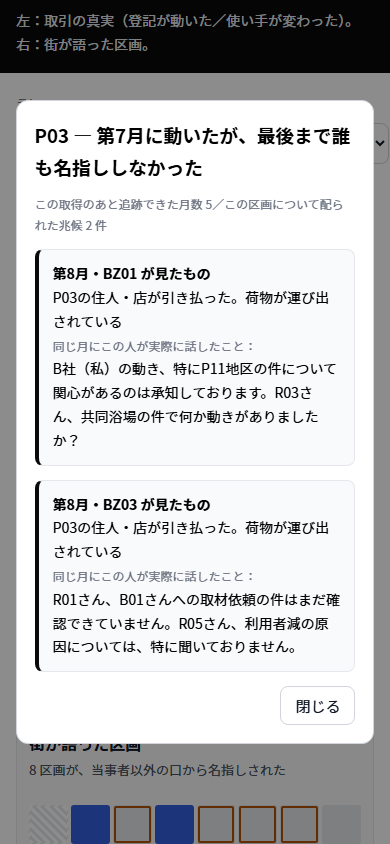
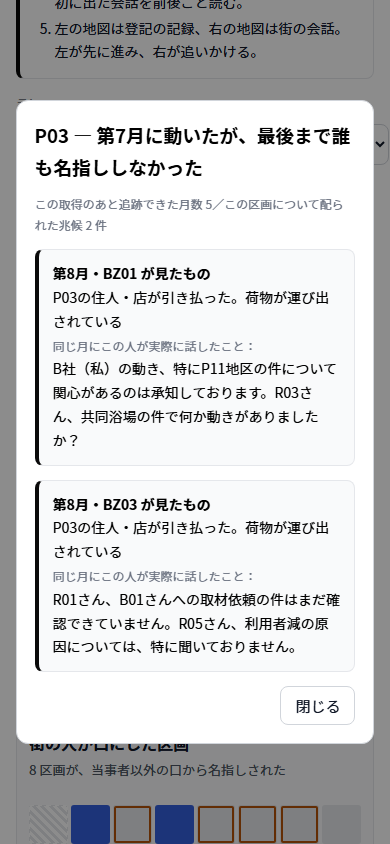
fix(present): show the first line where two parcels or two names actually stand side by side

Changed region(s): [[0.0, 0.0, 1.0, 0.0924], [0.1231, 0.8626, 0.4923, 0.8934]]

diff --git a/tests/test_present.py b/tests/test_present.py
@@ -28,6 +28,7 @@ PAGES = r"C:\Users\user\projects\quiet-acquisition-pages"
 SHOTS = os.path.join(ROOT, "docs", "shots_present")
 SHOTS2 = os.path.join(ROOT, "docs", "shots_present2")
 PASS = FAIL = 0
+SCENE_ORDER = {"plan": 0, "S1": 1, "S2": 2, "S3": 3, "S4": 4}
 
 
 def check(name, cond, detail=""):
@@ -66,7 +67,7 @@ def _jsonl(path):
 
 
 def json_checks(dC):
-    """schema 4 で足した layout / ignition / parcel_naming を JSON だけで検査する。"""
+    """schema 5 の layout / ignition（strict・loose）/ parcel_naming を JSON だけで検査する。"""
     run_dir = os.path.join(ROOT, "simulations", dC["meta"]["generated_from"])
 
     # --- layout -----------------------------------------------------------
@@ -156,59 +157,99 @@ def json_checks(dC):
 
     # --- ignition ---------------------------------------------------------
     ig = dC.get("ignition")
-    check("ignition: ある", isinstance(ig, dict) and set(ig) == {"green", "yellow"},
-          str(type(ig)))
+    check("ignition: ある", isinstance(ig, dict)
+          and set(ig) == {"green", "yellow", "criteria"}, str(type(ig)))
     if not isinstance(ig, dict):
         return
+    check("ignition: criteria に strict / loose の定義がある",
+          isinstance(ig.get("criteria"), dict)
+          and set(ig["criteria"]) == {"strict", "loose"}
+          and all(isinstance(v, str) and v for v in ig["criteria"].values()),
+          str(ig.get("criteria")))
     utts = _jsonl(os.path.join(run_dir, "utterances_v5.jsonl"))
     utt_by_id = {u.get("utt_id"): u for u in utts}
     thoughts_src = _jsonl(os.path.join(run_dir, "thoughts_all.jsonl"))
     traces_src = _jsonl(os.path.join(run_dir, "traces_v5.jsonl"))
+
+    def okey(o):
+        u = utt_by_id.get(o["utt_id"]) or {}
+        return (int(o["month"]), SCENE_ORDER.get(o["scene"], 9),
+                int(u.get("round") or 0), str(o["utt_id"] or ""), str(o["from"] or ""))
+
     for color in ("green", "yellow"):
-        o = ig[color]
-        if o is None:
-            check("ignition[%s]: 出なかった本として null" % color, True)
+        pair = ig[color]
+        check("ignition[%s]: strict と loose の2本立てになっている" % color,
+              isinstance(pair, dict) and set(pair) == {"strict", "loose"}, str(pair))
+        if not isinstance(pair, dict):
             continue
-        need = ("color", "month", "scene", "venue", "venue_label", "from", "name",
-                "role", "kind", "utt_id", "text", "rule", "llm", "context_before",
-                "context_after", "heard_before", "own_thoughts_that_month",
-                "traces_that_month")
-        check("ignition[%s]: 項目がそろっている" % color,
-              all(k in o for k in need),
-              str([k for k in need if k not in o]))
-        key = (o["month"], o["from"], o["utt_id"], o["kind"])
-        check("ignition[%s]: 元ログに該当行がある（照合が空振りしない）" % color,
-              key in src_text, str(key))
-        check("ignition[%s]: 原文が元ログと完全一致（切り詰めていない）" % color,
-              o["text"] in src_text.get(key, []), str(key))
-        own = [str(t.get("text", "")) for t in thoughts_src
-               if t.get("from") == o["from"] and int(t.get("step", 0)) == o["month"]]
-        check("ignition[%s]: 本人の内心が元ログの全行と完全一致" % color,
-              [t["text"] for t in o["own_thoughts_that_month"]] == own,
-              str(len(o["own_thoughts_that_month"])) + " vs " + str(len(own)))
-        tr = [str(t.get("text", "")) for t in traces_src
-              if t.get("agent_id") == o["from"] and int(t.get("step", 0)) == o["month"]]
-        check("ignition[%s]: その月の兆候が元ログの全行と完全一致（登記照会も含む）" % color,
-              [t["text"] for t in o["traces_that_month"]] == tr,
-              str(len(o["traces_that_month"])) + " vs " + str(len(tr)))
-        check("ignition[%s]: 色が rule ∧ llm で成立している" % color,
-              o["rule"][color] and o["llm"]["area" if color == "green" else "same_buyer"],
-              str((o["rule"], o["llm"])))
-        check("ignition[%s]: 直前の発言は5件以下" % color, len(o["context_before"]) <= 5)
-        check("ignition[%s]: 直後の反応は2件以下" % color, len(o["context_after"]) <= 2)
-        same = {(r["step"], r["scene"], r["venue"])
-                for r in o["context_before"] + o["context_after"]}
-        check("ignition[%s]: 前後の発言は同じ月・同じ場面・同じ場" % color,
-              not same or same == {(o["month"], o["scene"], o["venue"])}, str(same))
-        check("ignition[%s]: 聞いていた発言は5件以下" % color,
-              len(o["heard_before"]) <= 5)
-        miss = [r["utt_id"] for r in o["heard_before"]
-                if o["from"] not in (utt_by_id.get(r["utt_id"], {}).get("heard_by") or [])]
-        check("ignition[%s]: 聞いていた発言に本人が同席している" % color,
-              not miss, str(miss[:3]))
-        check("ignition[%s]: 前後・聞いた発言の原文が元ログと一致" % color,
-              all(utt_by_id.get(r["utt_id"], {}).get("text") == r["text"]
-                  for r in o["context_before"] + o["context_after"] + o["heard_before"]))
+        if pair["strict"] is not None and pair["loose"] is not None:
+            check("ignition[%s]: strict は loose と同じか後の行" % color,
+                  okey(pair["strict"]) >= okey(pair["loose"]),
+                  str((okey(pair["strict"]), okey(pair["loose"]))))
+        for slot in ("strict", "loose"):
+            o = pair[slot]
+            tag = "ignition[%s.%s]" % (color, slot)
+            if o is None:
+                check("%s: 出なかった本として null" % tag, True)
+                continue
+            need = ("color", "month", "scene", "venue", "venue_label", "from", "name",
+                    "role", "kind", "utt_id", "text", "rule", "llm", "context_before",
+                    "context_after", "heard_before", "own_thoughts_that_month",
+                    "traces_that_month")
+            check("%s: 項目がそろっている" % tag,
+                  all(k in o for k in need),
+                  str([k for k in need if k not in o]))
+            key = (o["month"], o["from"], o["utt_id"], o["kind"])
+            check("%s: 元ログに該当行がある（照合が空振りしない）" % tag,
+                  key in src_text, str(key))
+            check("%s: 原文が元ログと完全一致（切り詰めていない）" % tag,
+                  o["text"] in src_text.get(key, []), str(key))
+            own = [str(t.get("text", "")) for t in thoughts_src
+                   if t.get("from") == o["from"] and int(t.get("step", 0)) == o["month"]]
+            check("%s: 本人の内心が元ログの全行と完全一致" % tag,
+                  [t["text"] for t in o["own_thoughts_that_month"]] == own,
+                  str(len(o["own_thoughts_that_month"])) + " vs " + str(len(own)))
+            tr = [str(t.get("text", "")) for t in traces_src
+                  if t.get("agent_id") == o["from"] and int(t.get("step", 0)) == o["month"]]
+            check("%s: その月の兆候が元ログの全行と完全一致（登記照会も含む）" % tag,
+                  [t["text"] for t in o["traces_that_month"]] == tr,
+                  str(len(o["traces_that_month"])) + " vs " + str(len(tr)))
+            check("%s: 直前の発言は5件以下" % tag, len(o["context_before"]) <= 5)
+            check("%s: 直後の反応は2件以下" % tag, len(o["context_after"]) <= 2)
+            same = {(r["step"], r["scene"], r["venue"])
+                    for r in o["context_before"] + o["context_after"]}
+            check("%s: 前後の発言は同じ月・同じ場面・同じ場" % tag,
+                  not same or same == {(o["month"], o["scene"], o["venue"])}, str(same))
+            check("%s: 聞いていた発言は5件以下" % tag,
+                  len(o["heard_before"]) <= 5)
+            miss = [r["utt_id"] for r in o["heard_before"]
+                    if o["from"] not in (utt_by_id.get(r["utt_id"], {}).get("heard_by") or [])]
+            check("%s: 聞いていた発言に本人が同席している" % tag,
+                  not miss, str(miss[:3]))
+            check("%s: 前後・聞いた発言の原文が元ログと一致" % tag,
+                  all(utt_by_id.get(r["utt_id"], {}).get("text") == r["text"]
+                      for r in o["context_before"] + o["context_after"] + o["heard_before"]))
+            if slot == "loose":
+                check("%s: 色が rule ∧ llm で成立している" % tag,
+                      o["rule"][color]
+                      and o["llm"]["area" if color == "green" else "same_buyer"],
+                      str((o["rule"], o["llm"])))
+                check("%s: matched を持たない" % tag, "matched" not in o)
+            else:
+                m = o.get("matched")
+                check("%s: matched がある（並んだものを出せる）" % tag,
+                      isinstance(m, dict) and set(m) == {"parcels", "holders"}, str(m))
+                if isinstance(m, dict) and set(m) == {"parcels", "holders"}:
+                    check("%s: 区画IDか名義のどちらかが2件以上" % tag,
+                          len(m["parcels"]) >= 2 or len(m["holders"]) >= 2, str(m))
+                    check("%s: matched はソート済み" % tag,
+                          m["parcels"] == sorted(m["parcels"])
+                          and m["holders"] == sorted(m["holders"]), str(m))
+                    miss2 = [x for x in m["parcels"] + m["holders"] if x not in o["text"]]
+                    check("%s: matched は本文に実在する" % tag, not miss2, str(miss2))
+                check("%s: LLM ラベルが立っている" % tag,
+                      bool(o["llm"]["area" if color == "green" else "same_buyer"]),
+                      str(o["llm"]))
 
 
 def main() -> int:
@@ -225,8 +266,14 @@ def main() -> int:
         with open(os.path.join(PAGES, "present_data_%s.json" % lab), encoding="utf-8") as f:
             d = json.load(f)
         check("%s: 区画属性を持たない run は layout=null（従来の格子で描く）" % lab,
-              d.get("layout") is None and d["meta"]["schema"] == 4,
+              d.get("layout") is None and d["meta"]["schema"] == 5,
               str(d["meta"]["schema"]))
+        ig = d.get("ignition")
+        check("%s: ignition は色の判定が無い run でも同じ形" % lab,
+              isinstance(ig, dict) and set(ig) == {"green", "yellow", "criteria"}
+              and all(ig[c] == {"strict": None, "loose": None}
+                      for c in ("green", "yellow"))
+              and set(ig["criteria"]) == {"strict", "loose"}, str(ig))
     for lab in ("v5cA", "v5cB", "v5cC"):
         with open(os.path.join(PAGES, "present_data_%s.json" % lab), encoding="utf-8") as f:
             json_checks(json.load(f))
@@ -492,20 +539,38 @@ def main() -> int:
                     page.click("[role=tab][data-p='J']")
                     page.wait_for_timeout(250)
                     ip = page.inner_text("#pJ")
-                    g = dC["ignition"]["green"]
+                    g = dC["ignition"]["green"]["strict"]
                     check("ガイド手順4: 火が点いた瞬間のタブが開く", page.is_visible("#pJ"))
                     check("ガイド手順4: 緑の原文がそのまま出る",
                           bool(g) and g["text"] in ip, ip[:160])
                     check("ガイド手順4: 誰が・第何月・どの場かが出る",
                           bool(g) and f"第{g['month']}月" in ip and g["from"] in ip)
+                    check("ガイド手順4: 並んだものが matched から出る",
+                          bool(g) and all(x in ip for x in
+                                          g["matched"]["parcels"] + g["matched"]["holders"]),
+                          ip[:160])
                     check("ガイド手順4: 内心と発話がラベルで区別されている",
                           "口に出した（同席者に届いた）" in ip
                           or "頭の中（誰にも伝わっていない）" in ip, ip[:160])
-                    y = dC["ignition"]["yellow"]
+                    y = dC["ignition"]["yellow"]["strict"]
                     check("ガイド手順4: 黄も原文で出る（出ない本はその旨）",
-                          (y["text"] in ip) if y else ("この本ではこの色は出なかった" in ip))
+                          (y["text"] in ip) if y
+                          else ("区画や名義が2つ以上並んだ行は無かった" in ip))
+                    check("ガイド手順4: 上段が strict の説明になっている",
+                          "区画や名義が実際に2つ以上並んだ、最初の発言・内心。" in ip, ip[:160])
                     check("ガイド手順4: 判定でなく原文を出す注記がある",
                           "人が読み直すと緑どまりの行が混じる" in ip)
+                    check("ガイド手順4: loose は畳んである",
+                          "判定の定義どおりの初出（畳んである）" in ip
+                          and not page.is_visible("#pJ details.igloose > p"), ip[:160])
+                    page.click("#pJ details.igloose > summary")
+                    page.wait_for_timeout(200)
+                    ip2 = page.inner_text("#pJ")
+                    gl = dC["ignition"]["green"]["loose"]
+                    check("ガイド手順4: 開くと定義どおりの初出が原文で出る",
+                          bool(gl) and gl["text"] in ip2, ip2[:160])
+                    check("ガイド手順4: 甘さの説明が出る",
+                          "まだ何も起きていない月の世間話が入る" in ip2, ip2[:160])
                     roles = page.eval_on_selector_all(
                         "#mapR rect.cell",
                         "els => els.filter(e => e.tabIndex === 0)"

diff --git a/tools/build_present_data.py b/tools/build_present_data.py
@@ -258,53 +258,110 @@ def _ctx_row(u):
             "utt_id": u.get("utt_id", ""), "text": str(u.get("text", ""))}
 
 
-def _build_ignition(rows, utts, thoughts, traces, venue_labels) -> dict:
+IGNITION_CRITERIA = {
+    "loose": "走行前に固定した色の定義（ルール1次抽出 ∧ LLM）どおりの初出",
+    "strict": ("上に加えて、本文にその月までに成立した取得区画IDが2つ以上、"
+               "または異なる名義が2つ以上、実際に並んでいる最初の行"),
+}
+
+
+def _ignition_matched(row, holders_by_step, acquired_by_step):
+    step = int(row.get("step") or 0)
+    text = str(row.get("text", ""))
+    hit = _v5_mentions(text, holders_by_step.get(step, set()))
+    parcels = sorted(p for p in hit["parcels"] if p in acquired_by_step.get(step, set()))
+    return {"parcels": parcels, "holders": sorted(hit["holders"])}
+
+
+def _ignition_strict_hit(row, color, holders_by_step, acquired_by_step):
+    if not row.get("classified"):
+        return None
+    m = _ignition_matched(row, holders_by_step, acquired_by_step)
+    if color == "green":
+        if not row.get("llm_area"):
+            return None
+        if len(m["parcels"]) < 2 and len(m["holders"]) < 2:
+            return None
+    else:
+        if not row.get("llm_same_buyer"):
+            return None
+        if len(m["holders"]) < 2:
+            return None
+    return m
+
+
+def _ignition_empty() -> dict:
+    return {"green": {"strict": None, "loose": None},
+            "yellow": {"strict": None, "loose": None},
+            "criteria": dict(IGNITION_CRITERIA)}
+
+
+def _build_ignition(rows, utts, thoughts, traces, venue_labels,
+                    holders_by_step, acquired_by_step) -> dict:
     utt_sorted = sorted(utts, key=_sort_key)
-    out = {}
+    rows_sorted = sorted(rows, key=_sort_key)
+    out = {"criteria": dict(IGNITION_CRITERIA)}
     for color in ("green", "yellow"):
-        hit = next((r for r in sorted(rows, key=_sort_key)
-                    if r.get("stage") == color), None)
-        if hit is None:
-            out[color] = None
-            continue
-        month, who = hit["step"], hit["from"]
-        key = _sort_key(hit)
-        same_place = [u for u in utt_sorted
-                      if int(u.get("step") or 0) == month
-                      and (u.get("scene") or "") == (hit.get("scene") or "")
-                      and (u.get("venue") or "") == (hit.get("venue") or "")]
-        if hit.get("kind") != "utterance" and not hit.get("venue"):
-            same_place = []
-        before = [u for u in same_place if _sort_key(u) < key][-5:]
-        after = [u for u in same_place if _sort_key(u) > key][:2]
-        heard = [u for u in utt_sorted
-                 if int(u.get("step") or 0) == month and _sort_key(u) < key
-                 and who in _heard_by(u)][-5:]
-        own = [{"scene": t.get("scene", ""), "text": str(t.get("text", ""))}
-               for t in sorted(thoughts, key=_sort_key)
-               if t.get("from") == who and int(t.get("step") or 0) == month]
-        tr = [{"kind": t.get("kind", ""), "parcel_id": t.get("parcel_id", ""),
-               "acq_id": t.get("acq_id", ""), "text": str(t.get("text", ""))}
-              for t in traces
-              if t.get("agent_id") == who and int(t.get("step") or 0) == month]
-        out[color] = {
-            "color": color, "month": month, "scene": hit.get("scene", ""),
-            "venue": hit.get("venue", ""),
-            "venue_label": venue_labels.get(hit.get("venue", ""), hit.get("venue", "")),
-            "from": who, "name": hit.get("name", ""), "role": hit.get("role", ""),
-            "kind": hit.get("kind", ""), "utt_id": hit.get("utt_id", ""),
-            "text": hit["text"],
-            "rule": {"blue": bool(hit["rule_blue"]), "green": bool(hit["rule_green"]),
-                     "yellow": bool(hit["rule_yellow"]), "red": bool(hit["rule_red"])},
-            "llm": {"deal": hit["llm_deal"], "area": hit["llm_area"],
-                    "same_buyer": hit["llm_same_buyer"], "admin": hit["llm_admin"]},
-            "context_before": [_ctx_row(u) for u in before],
-            "context_after": [_ctx_row(u) for u in after],
-            "heard_before": [_ctx_row(u) for u in heard],
-            "own_thoughts_that_month": own,
-            "traces_that_month": tr,
-        }
+        out[color] = {"strict": None, "loose": None}
+        picks = [("loose", next((r for r in rows_sorted
+                                 if r.get("stage") == color), None), None)]
+        strict_row, strict_matched = None, None
+        for r in rows_sorted:
+            m = _ignition_strict_hit(r, color, holders_by_step, acquired_by_step)
+            if m is not None:
+                strict_row, strict_matched = r, m
+                break
+        picks.append(("strict", strict_row, strict_matched))
+        for slot, hit, matched in picks:
+            if hit is None:
+                continue
+            out[color][slot] = _ignition_obj(color, hit, matched, utt_sorted,
+                                             thoughts, traces, venue_labels)
     return out
+
+
+def _ignition_obj(color, hit, matched, utt_sorted, thoughts, traces,
+                  venue_labels) -> dict:
+    month, who = hit["step"], hit["from"]
+    key = _sort_key(hit)
+    same_place = [u for u in utt_sorted
+                  if int(u.get("step") or 0) == month
+                  and (u.get("scene") or "") == (hit.get("scene") or "")
+                  and (u.get("venue") or "") == (hit.get("venue") or "")]
+    if hit.get("kind") != "utterance" and not hit.get("venue"):
+        same_place = []
+    before = [u for u in same_place if _sort_key(u) < key][-5:]
+    after = [u for u in same_place if _sort_key(u) > key][:2]
+    heard = [u for u in utt_sorted
+             if int(u.get("step") or 0) == month and _sort_key(u) < key
+             and who in _heard_by(u)][-5:]
+    own = [{"scene": t.get("scene", ""), "text": str(t.get("text", ""))}
+           for t in sorted(thoughts, key=_sort_key)
+           if t.get("from") == who and int(t.get("step") or 0) == month]
+    tr = [{"kind": t.get("kind", ""), "parcel_id": t.get("parcel_id", ""),
+           "acq_id": t.get("acq_id", ""), "text": str(t.get("text", ""))}
+          for t in traces
+          if t.get("agent_id") == who and int(t.get("step") or 0) == month]
+    obj = {
+        "color": color, "month": month, "scene": hit.get("scene", ""),
+        "venue": hit.get("venue", ""),
+        "venue_label": venue_labels.get(hit.get("venue", ""), hit.get("venue", "")),
+        "from": who, "name": hit.get("name", ""), "role": hit.get("role", ""),
+        "kind": hit.get("kind", ""), "utt_id": hit.get("utt_id", ""),
+        "text": hit["text"],
+        "rule": {"blue": bool(hit["rule_blue"]), "green": bool(hit["rule_green"]),
+                 "yellow": bool(hit["rule_yellow"]), "red": bool(hit["rule_red"])},
+        "llm": {"deal": hit["llm_deal"], "area": hit["llm_area"],
+                "same_buyer": hit["llm_same_buyer"], "admin": hit["llm_admin"]},
+        "context_before": [_ctx_row(u) for u in before],
+        "context_after": [_ctx_row(u) for u in after],
+        "heard_before": [_ctx_row(u) for u in heard],
+        "own_thoughts_that_month": own,
+        "traces_that_month": tr,
+    }
+    if matched is not None:
+        obj["matched"] = matched
+    return obj
 
 
 def build(run_dir: str) -> dict:
@@ -791,13 +848,14 @@ def build(run_dir: str) -> dict:
                        for v in ((cfg.get("social", {}) or {}).get("venues") or [])}
     layout = _build_layout(cfg, {p["pid"] for p in parcels})
     naming = _parcel_naming(layout, utts, thoughts, articles)
-    ignition = (_build_ignition(stage_rows, utts, thoughts, traces, venue_label_map)
-                if stage_rows else None)
+    ignition = (_build_ignition(stage_rows, utts, thoughts, traces, venue_label_map,
+                                holders_by_step, acquired_by_step)
+                if stage_rows else _ignition_empty())
 
     return {
         "meta": {"generated_from": os.path.basename(run_dir),
                  "generator": "tools/build_present_data.py",
-                 "schema": 4,
+                 "schema": 5,
                  "generated_at": _dt.datetime.now().isoformat(timespec="seconds"),
                  "note": "画面の数値・塗りはこのJSONだけから描く（手打ち禁止）"},
         "grid": {"cols": cols, "rows": rows, "blocks": blocks, "parcels": parcels},
